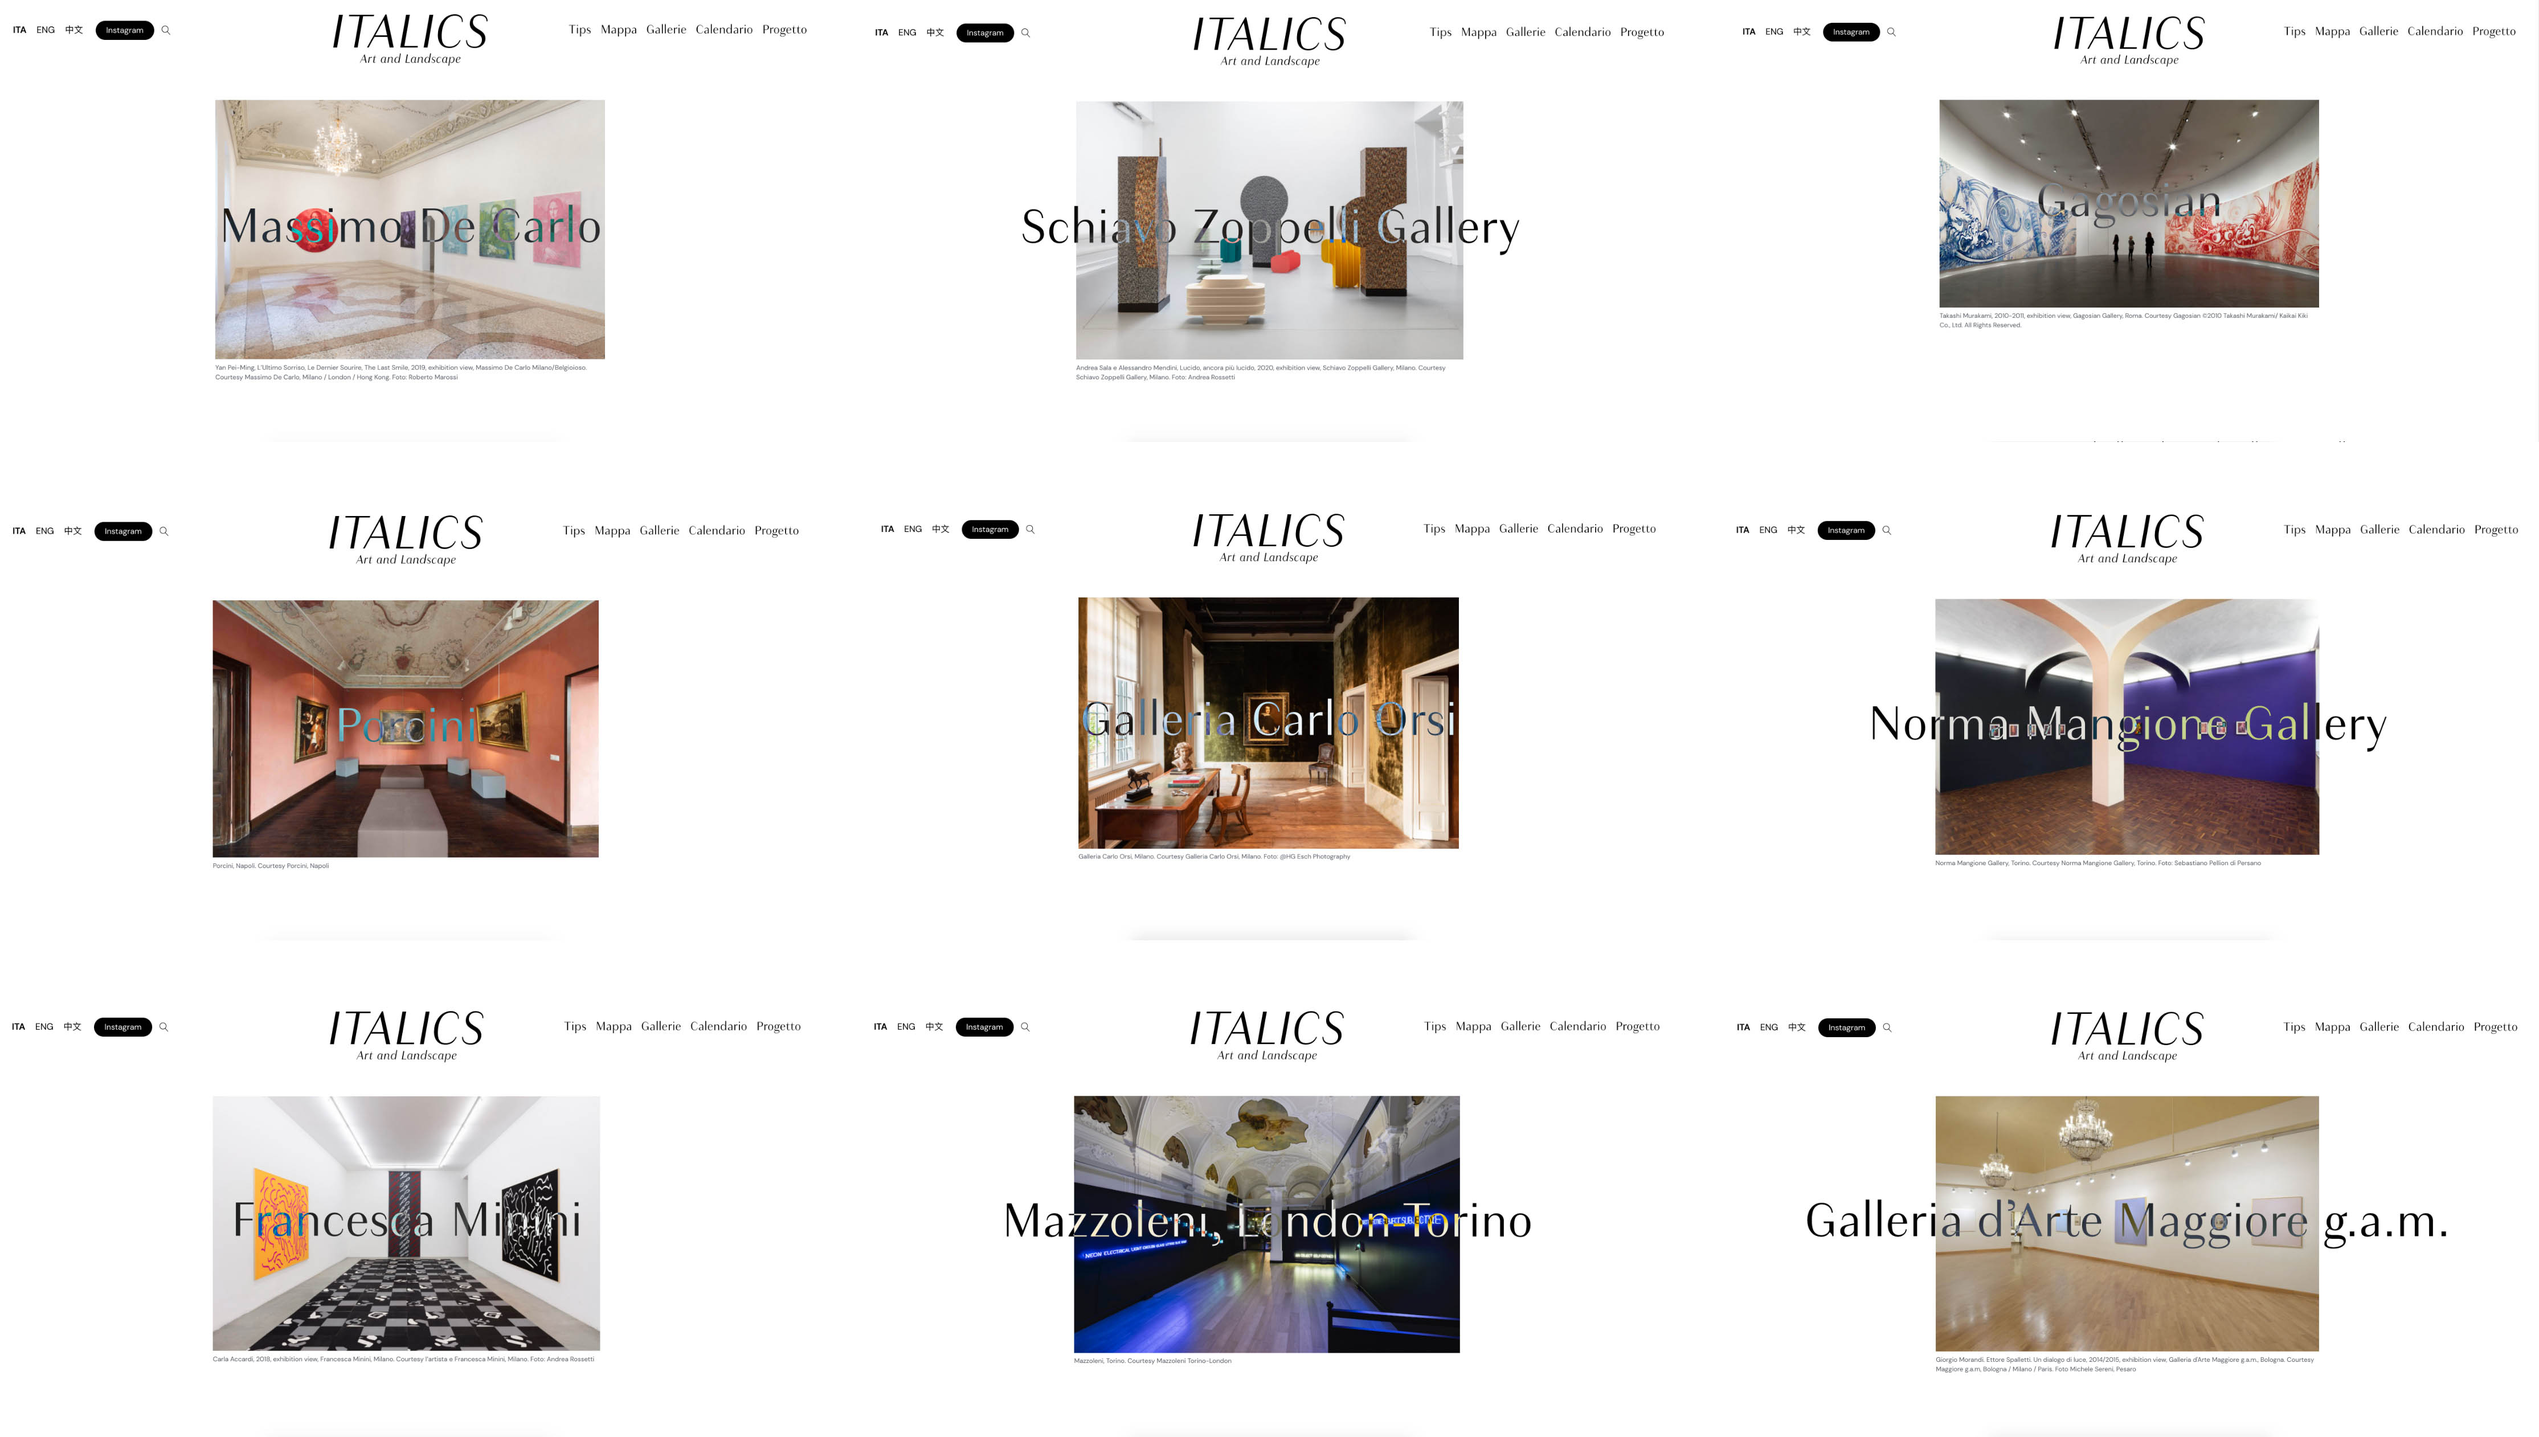
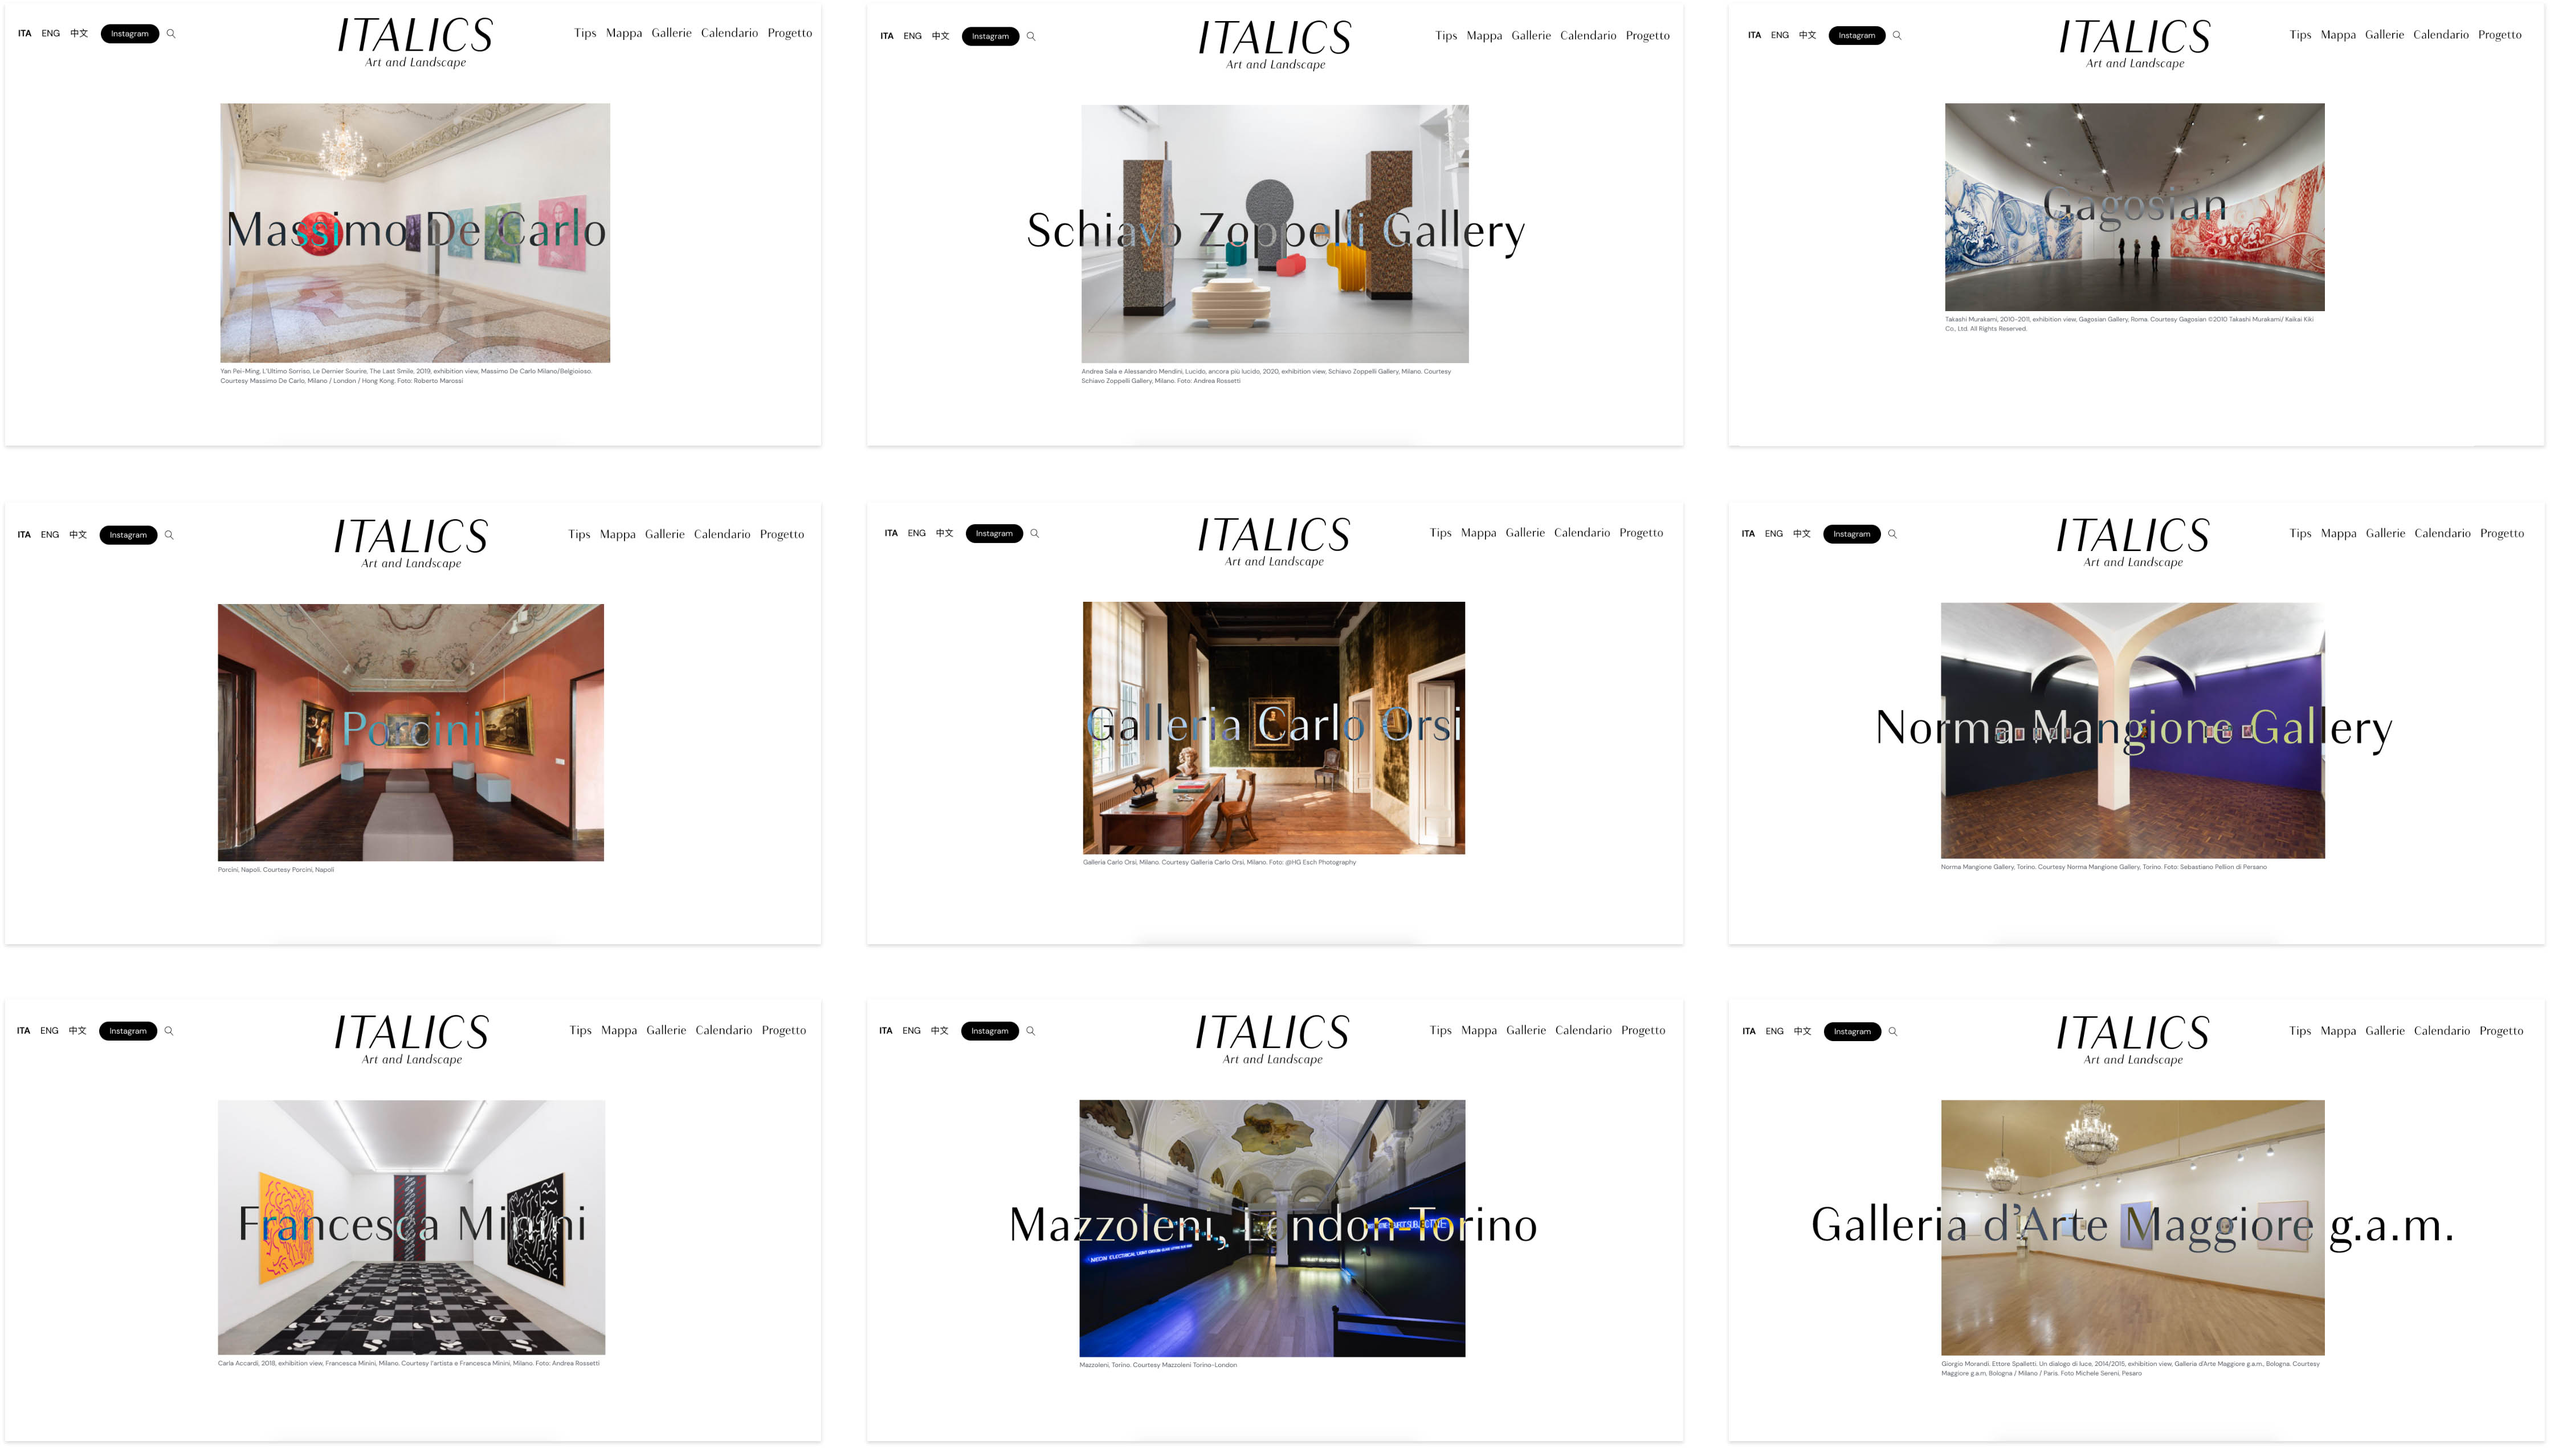
test italics imgs

diff --git a/index.html b/index.html
@@ -193,8 +193,8 @@
            </div>
          </div>
          <div class="grid-content-page">
-           <img class="proj-img-1-12 mob-hidden lazyload" data-src="assets/imgs/italics/italics-2.jpg" alt="">
-           <img class="proj-img-1-12 des-hidden lazyload" data-src="assets/imgs/italics/mob/italics-2.jpg" alt="">
+           <img class="proj-img-1-12 mob-hidden lazyload" src="assets/imgs/italics/italics-2-loww.jpg" data-src="assets/imgs/italics/italics-2.jpg" alt="">
+           <img class="proj-img-1-12 des-hidden lazyload" src="assets/imgs/italics/italics-2-loww.jpg" data-src="assets/imgs/italics/mob/italics-2.jpg" alt="">
          </div>
          <div class="grid-content-page">
            <div class="proj-img-1-12">
@@ -205,14 +205,14 @@
            </div>
          </div>
          <div class="grid-content-page">
-           <img class="proj-img-1-12 mob-hidden lazyload" data-src="assets/imgs/italics/italics-3.jpg" alt="">
-           <img class="proj-img-1-12 des-hidden margin-on-mob lazyload" data-src="assets/imgs/italics/mob/italics-3-1.jpg" alt="">
-           <img class="proj-img-1-12 des-hidden margin-on-mob lazyload" data-src="assets/imgs/italics/mob/italics-3-2.jpg" alt="">
-           <img class="proj-img-1-12 des-hidden margin-on-mob lazyload" data-src="assets/imgs/italics/mob/italics-3-3.jpg" alt="">
+           <img class="proj-img-1-12 mob-hidden lazyload" src="assets/imgs/italics/italics-3-loww.jpg" data-src="assets/imgs/italics/italics-3.jpg" alt="">
+           <img class="proj-img-1-12 des-hidden margin-on-mob lazyload" src="assets/imgs/italics/italics-3-1-loww.jpg" data-src="assets/imgs/italics/mob/italics-3-1.jpg" alt="">
+           <img class="proj-img-1-12 des-hidden margin-on-mob lazyload" src="assets/imgs/italics/italics-3-2-loww.jpg" data-src="assets/imgs/italics/mob/italics-3-2.jpg" alt="">
+           <img class="proj-img-1-12 des-hidden margin-on-mob lazyload" src="assets/imgs/italics/italics-3-3-loww.jpg" data-src="assets/imgs/italics/mob/italics-3-3.jpg" alt="">
          </div>
          <div class="grid-content-page">
-           <img class="proj-img-1-12 mob-hidden lazyload" data-src="assets/imgs/italics/italics-4.jpg" alt="">
-           <img class="proj-img-1-12 des-hidden lazyload" data-src="assets/imgs/italics/mob/italics-4.jpg" alt="">
+           <img class="proj-img-1-12 mob-hidden lazyload" src="assets/imgs/italics/italics-4-loww.jpg" data-src="assets/imgs/italics/italics-4.jpg" alt="">
+           <img class="proj-img-1-12 des-hidden lazyload" src="assets/imgs/italics/italics-4-loww.jpg" data-src="assets/imgs/italics/mob/italics-4.jpg" alt="">
          </div>
          <div class="grid-content-page closing-proj-section">
            <h2 class="closing-proj-text">Thanks for scrolling,<br>have a look of next project?</h2>
